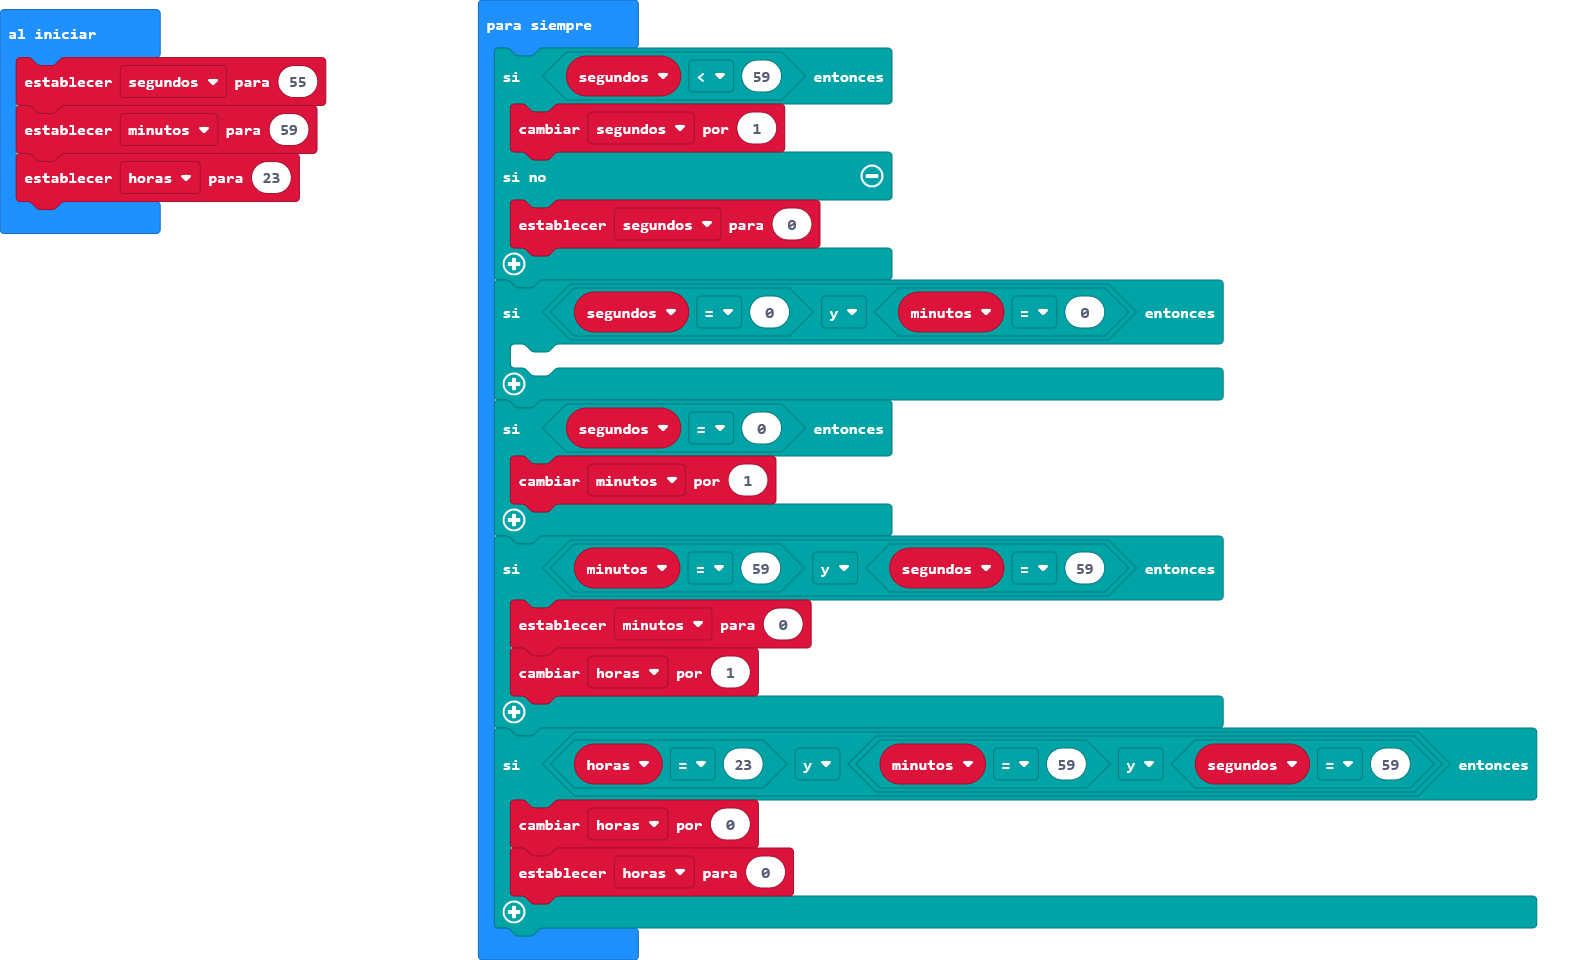
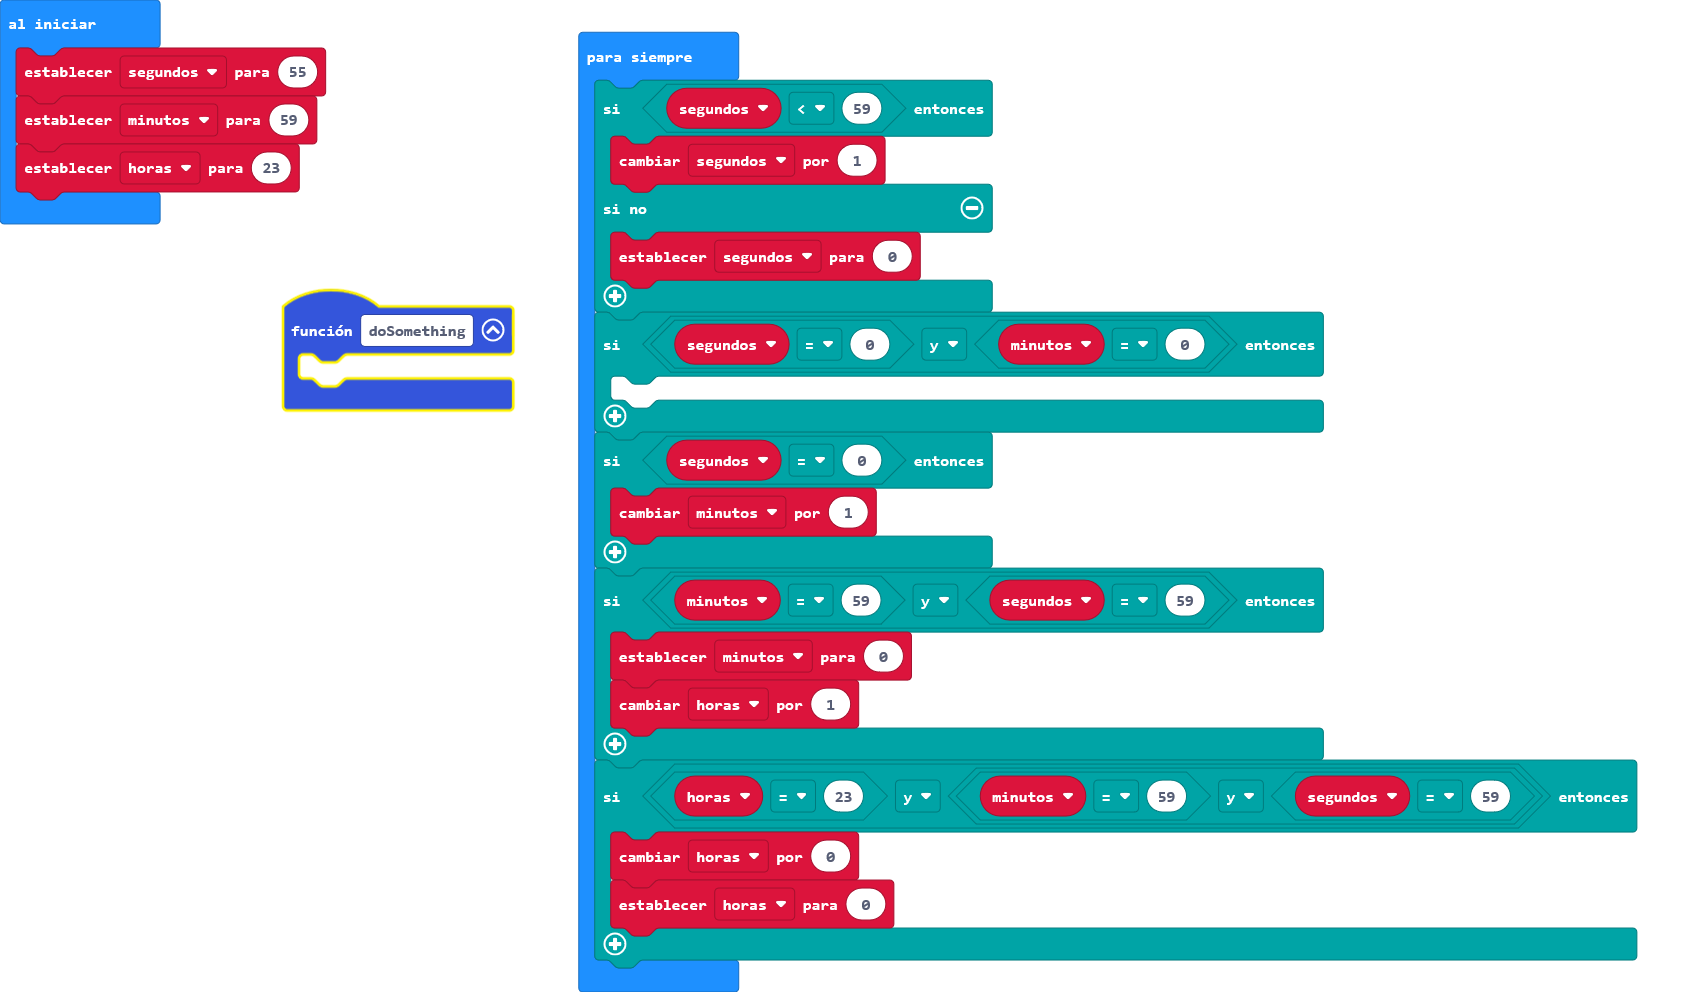
Actualizar main.blocks, main.ts

diff --git a/main.ts b/main.ts
@@ -1,3 +1,6 @@
+function doSomething () {
+	
+}
 let segundos = 55
 let minutos = 59
 let horas = 23
